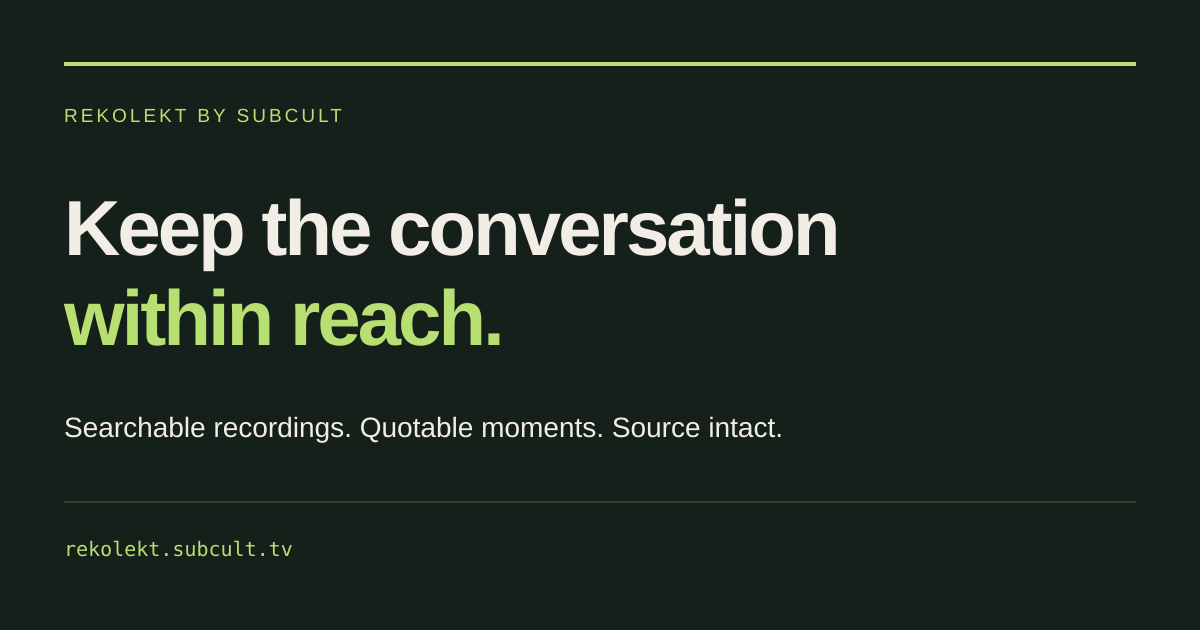
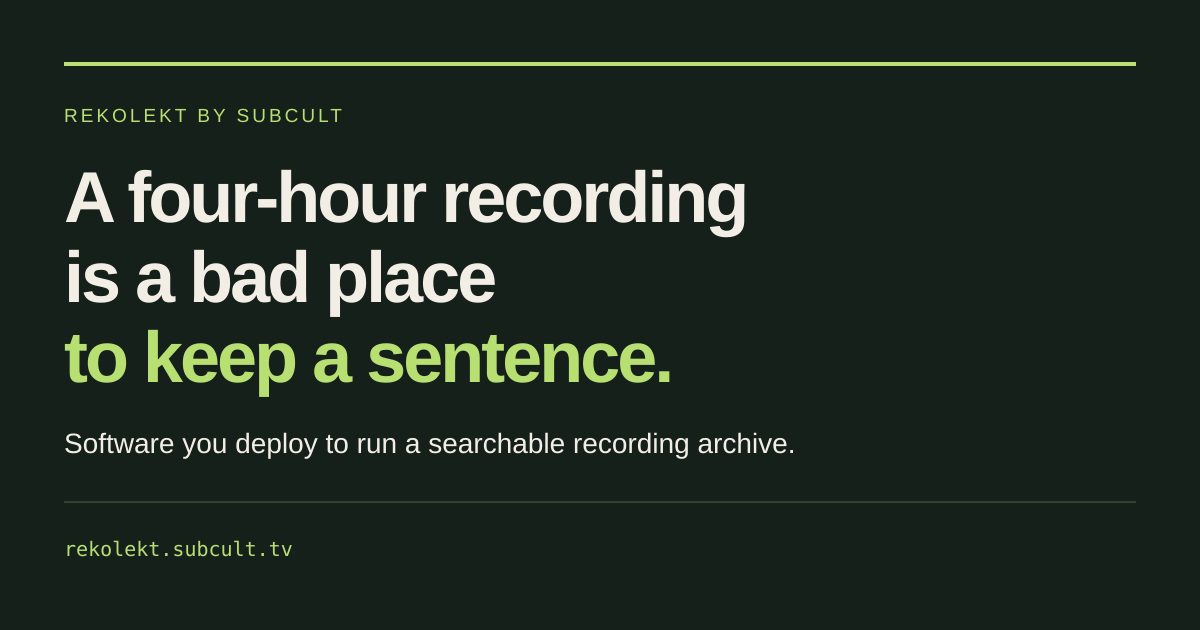
brand(landing): re-render the social preview with the current headline
The share image still showed "Keep the conversation within reach." while
the page and og:title use the new hero line. Edit the SVG text and render
the PNG with rsvg-convert; the unchanged SVG reproduced the previous PNG
byte for byte on Kvant before the edit.

Image text: "REKOLEKT BY SUBCULT", "A four-hour recording is a bad place
to keep a sentence.", "Software you deploy to run a searchable recording
archive.", "rekolekt.subcult.tv". Headline drops from 78px to 72px to fit
three lines.

Version the og:image URL with the PNG's content hash, add og:image:alt,
and document the render command and versioning rule in landing/README.md.

social-preview.png sha256
2a19d1e8e7928cda95ffe772fa169a28125bd2b5d239474c8c45a9d56b261024

Changed region(s): [[0.0308, 0.2714, 0.7092, 0.6333], [0.0308, 0.6635, 0.6783, 0.7238]]

diff --git a/landing/index.html b/landing/index.html
@@ -5,7 +5,7 @@
 <title>Rekolekt: software for searchable recording archives</title>
 <meta name="description" content="Rekolekt is open-source software you deploy to run a recording archive. It transcribes each recording with timestamps, indexes the text, and links every passage back to its source. By SUBCULT.">
 <meta name="theme-color" content="#16201b"><link rel="canonical" href="https://rekolekt.subcult.tv/">
-<meta property="og:type" content="website"><meta property="og:title" content="A four-hour recording is a bad place to keep a sentence."><meta property="og:description" content="Rekolekt is open-source software for running a timestamped, searchable recording archive. Each archive runs under its own name. HasanAra is one."><meta property="og:url" content="https://rekolekt.subcult.tv/"><meta property="og:image" content="https://rekolekt.subcult.tv/social-preview.png"><meta property="og:image:width" content="1200"><meta property="og:image:height" content="630"><meta name="twitter:card" content="summary_large_image">
+<meta property="og:type" content="website"><meta property="og:title" content="A four-hour recording is a bad place to keep a sentence."><meta property="og:description" content="Rekolekt is open-source software for running a timestamped, searchable recording archive. Each archive runs under its own name. HasanAra is one."><meta property="og:url" content="https://rekolekt.subcult.tv/"><meta property="og:image" content="https://rekolekt.subcult.tv/social-preview.png?v=2a19d1e8e792"><meta property="og:image:alt" content="Rekolekt by SUBCULT. A four-hour recording is a bad place to keep a sentence. Software you deploy to run a searchable recording archive."><meta property="og:image:width" content="1200"><meta property="og:image:height" content="630"><meta name="twitter:card" content="summary_large_image">
 <link rel="icon" href="/brand/logos/mark-primary-outlined.svg" type="image/svg+xml"><link rel="stylesheet" href="/style.css?v=1bf10c316494"><script src="/demo.js?v=3668d03d4981" defer></script>
 </head>
 <body>

diff --git a/landing/README.md b/landing/README.md
@@ -22,6 +22,24 @@ rtk proxy node --check landing/demo.js
 rtk proxy docker build -t rekolekt-landing:review landing
 ```
 
+## Social preview
+
+`social-preview.svg` is the source for `social-preview.png` (1200 × 630). Its text
+repeats the page headline, so edit both together. The SVG names only generic
+`sans-serif` and `monospace` families; the committed PNG was rendered on Kvant,
+where they resolve to Liberation Sans and BitstromWera Nerd Font
+(rsvg-convert 2.62.3). Another font setup gives different glyphs, so look at the
+PNG after rendering.
+
+```sh
+rtk proxy rsvg-convert -w 1200 -h 630 landing/social-preview.svg -o landing/social-preview.png
+rtk proxy sha256sum landing/social-preview.png landing/style.css landing/demo.js
+```
+
+`index.html` versions `style.css`, `demo.js` and the `og:image` URL with `?v=` and
+the first 12 hex characters of the file's SHA-256. Update the matching value
+whenever one of those files changes.
+
 Check the rendered desktop and narrow layouts, search matches and empty results,
 passage selection, keyboard access, FAQ disclosure, local fonts and images.
 
